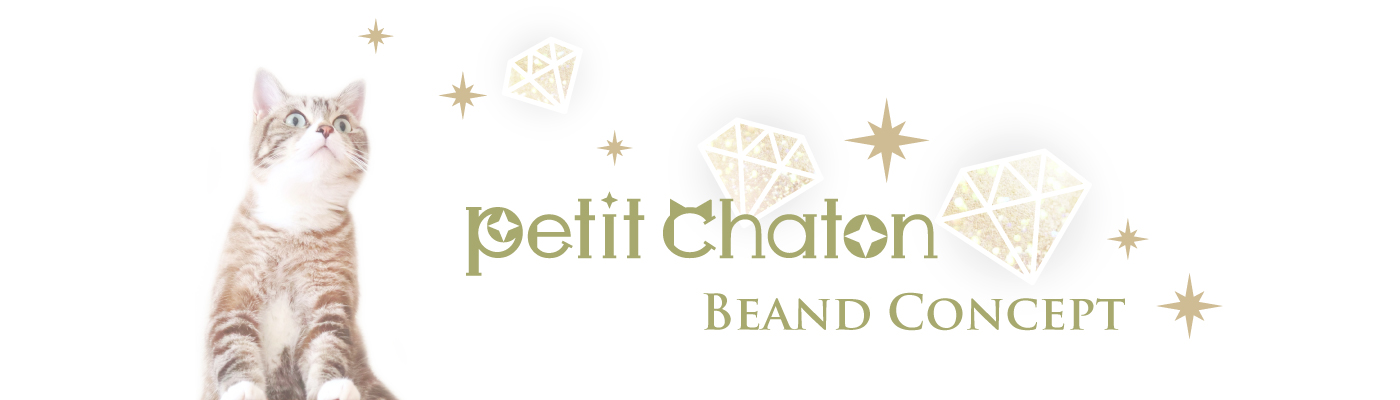
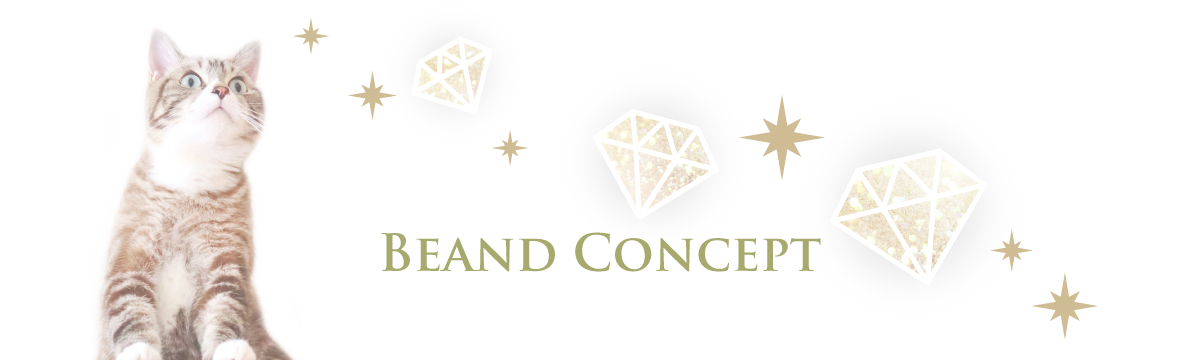
[Change]ブランドコンセプト画像とサイズを変更

diff --git a/app/templates/main/top_page.html b/app/templates/main/top_page.html
@@ -66,7 +66,8 @@ content %}
     <img
         src="../static/images/items/main/PCwebsite-concept.jpg"
         alt="ブランドコンセプト画像"
-        style="width: 100%; object-fit: cover"
+        style="width: 100%; max-width: 1000px; object-fit: cover"
+        class="d-block mx-auto"
     />
     <div class="mx-auto mt-3" style="max-width: 530px">
         <p>
